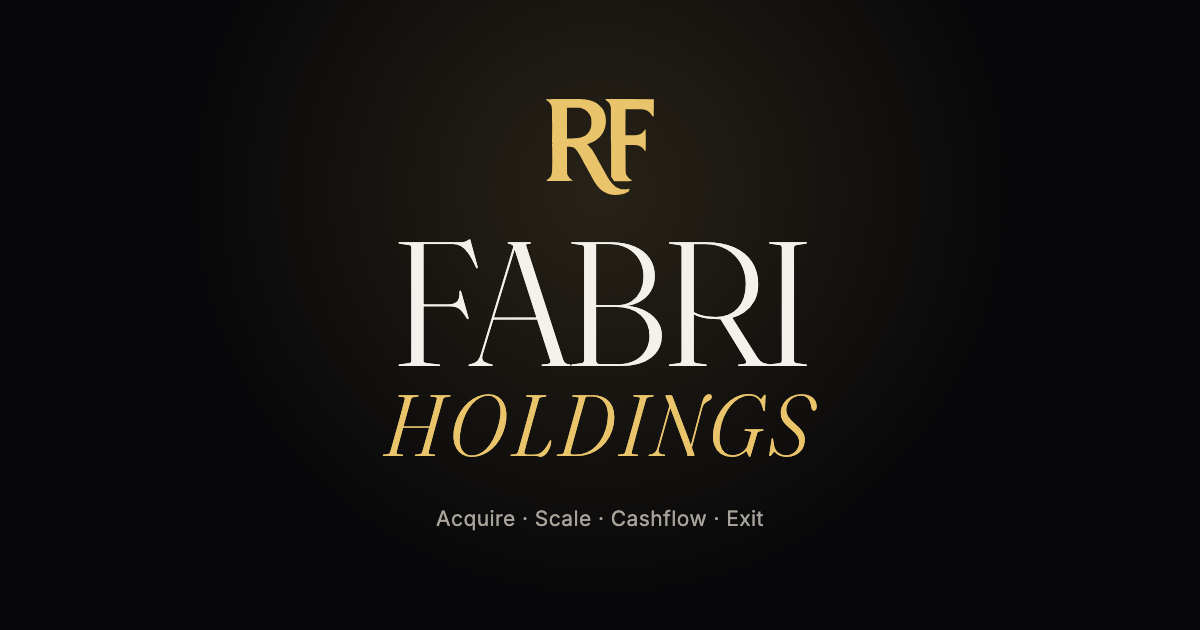
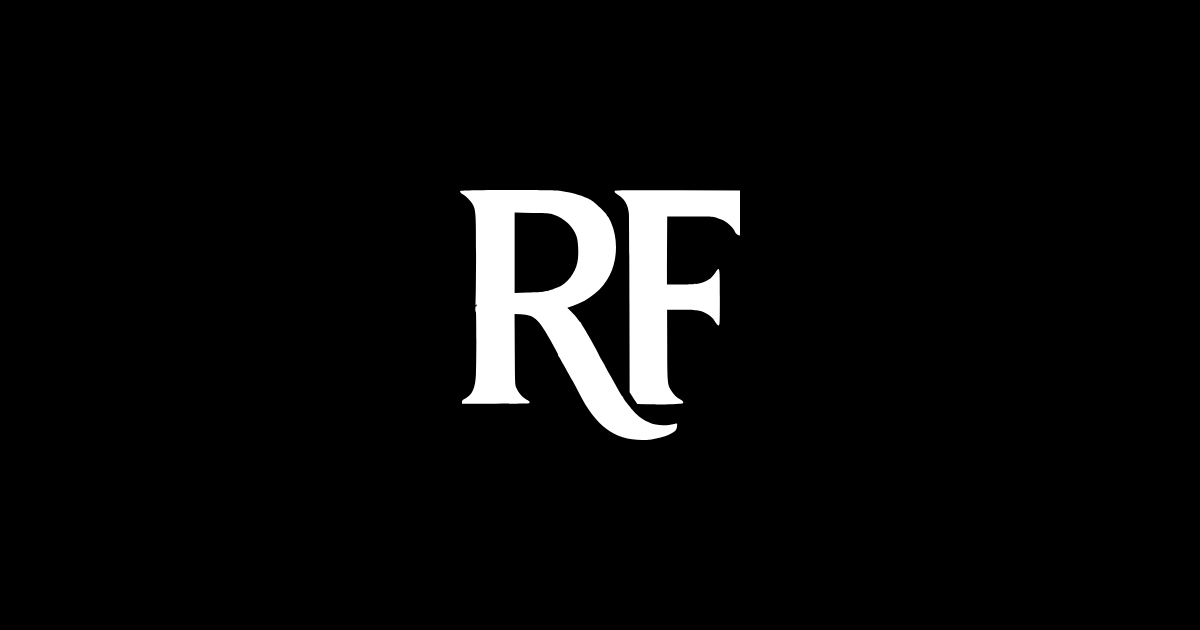
Make the share image the white RF monogram on black

Changed region(s): [[0.3083, 0.0, 0.6783, 0.7238], [0.37, 0.8143, 0.6475, 0.8444]]

diff --git a/index.html b/index.html
@@ -20,12 +20,12 @@
       property="og:description"
       content="1500+ companies scaled. $26M under family management. Four industries. One operator-led holding company."
     />
-    <meta property="og:image" content="https://renatofabri.com/og.png" />
+    <meta property="og:image" content="https://renatofabri.com/og.png?v=2" />
     <meta property="og:image:width" content="1200" />
     <meta property="og:image:height" content="630" />
     <meta property="og:image:alt" content="Fabri Holdings" />
     <meta name="twitter:card" content="summary_large_image" />
-    <meta name="twitter:image" content="https://renatofabri.com/og.png" />
+    <meta name="twitter:image" content="https://renatofabri.com/og.png?v=2" />
 
     <link rel="preconnect" href="https://fonts.googleapis.com" />
     <link rel="preconnect" href="https://fonts.gstatic.com" crossorigin />
@@ -41,7 +41,7 @@
         "name": "Fabri Holdings",
         "url": "https://renatofabri.com/",
         "logo": "https://renatofabri.com/rf-mark.svg",
-        "image": "https://renatofabri.com/og.png",
+        "image": "https://renatofabri.com/og.png?v=2",
         "description": "Operator-led holding company acquiring businesses to scale, cashflow and exit. 1500+ companies scaled and $26M under family management across four industries.",
         "founder": {
           "@type": "Person",
